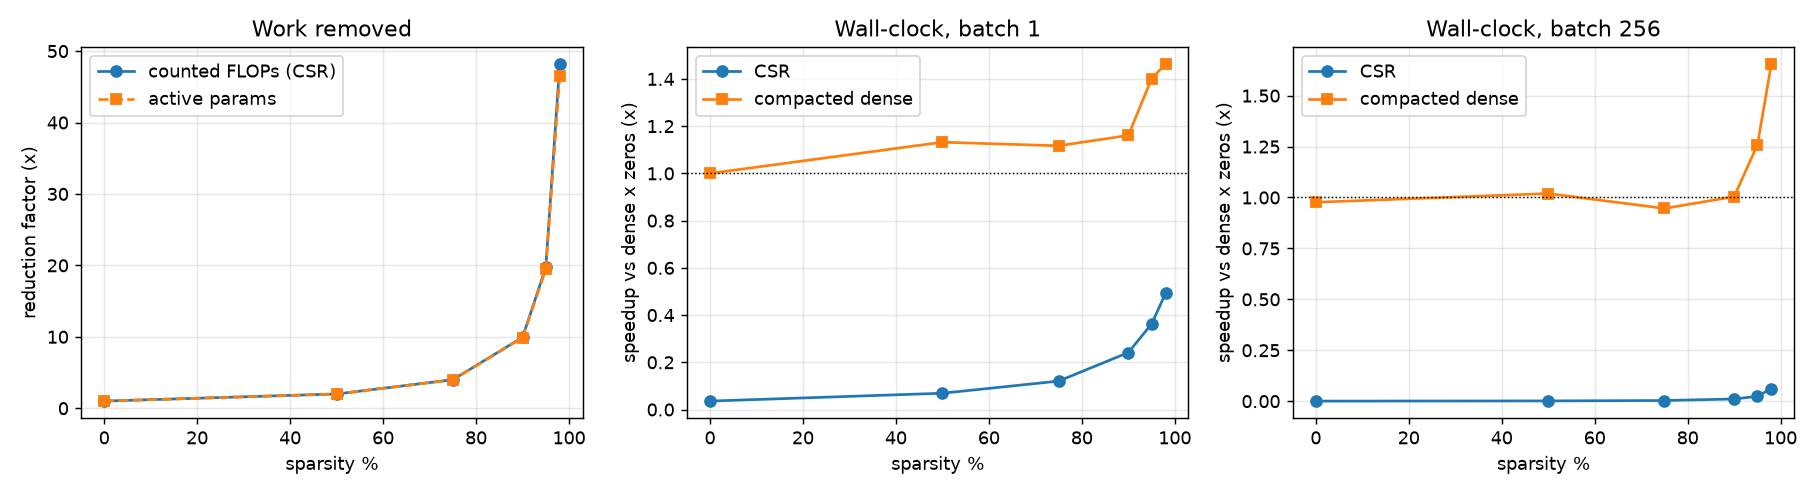
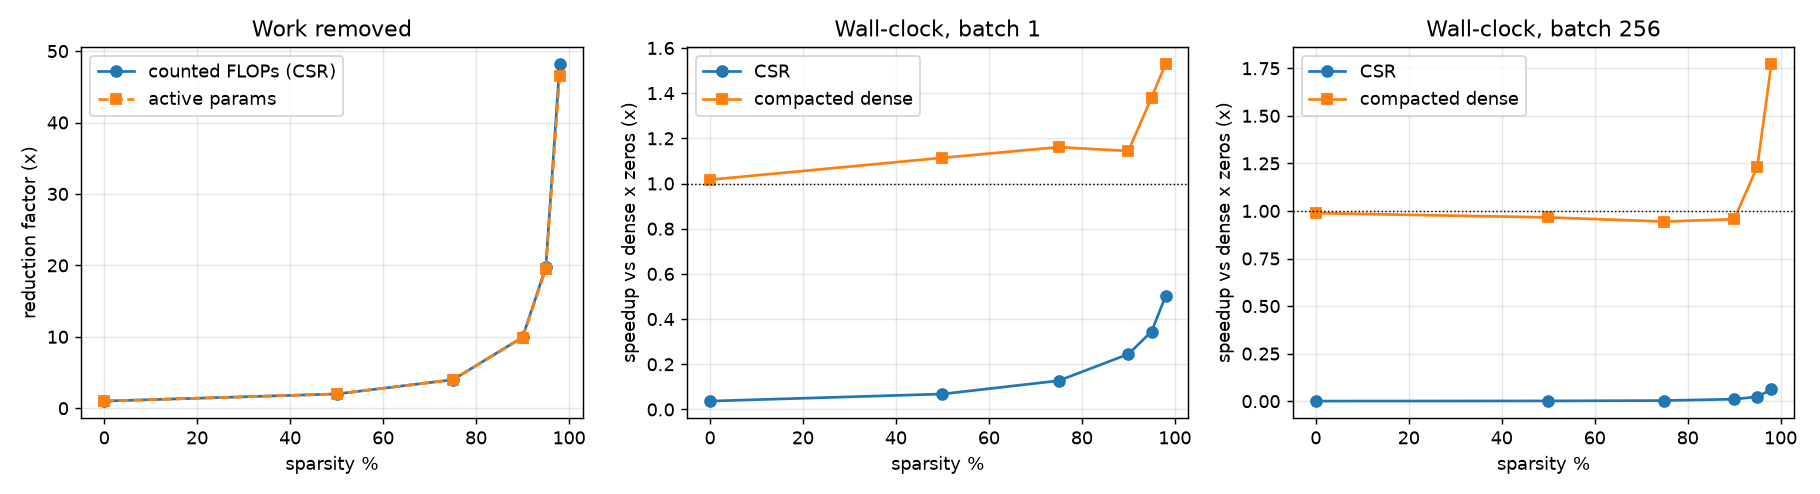
Measure inference cost over 8 seeds with variance, for both criteria
bench_variance.py trains the magnitude and fisher_taylor models for seeds 0-7 at 90/95/98%
(cached outside git, deterministic) and times dense-times-zeros, our CSR forward and the
compacted dense forward on each: round-robin over the paths, 50 samples each after
warm-up, speedup per model as median(dense)/median(path), then median and IQR over the 8
models. bench.json now records the CPU model, NumPy version, BLAS and thread settings, and
the single-model benchmark was re-run with them.

The CSR path is slower than dense BLAS everywhere (median 0.24-0.49x at batch 1, 0.013-0.066x
at batch 256). Compaction helps only for fisher_taylor models, which leave more whole
neurons and inputs disconnected: 1.37x (batch 1) and 1.07x (batch 256) at 95%, 1.51x and
1.73x at 98%. For the magnitude models compaction is not a speedup at 90-95% (0.66-1.02x)
and only 1.2x at batch 1, 0.93x at batch 256, at 98%.

diff --git a/scripts/bench_variance.py b/scripts/bench_variance.py
@@ -1,0 +1,229 @@
+"""Inference cost with variance: the wall-clock benchmark over 8 seeds' models.
+
+The single-model benchmark (bench_inference.py) gives one number per sparsity. This one
+trains the magnitude and fisher_taylor models for seeds 0-7 at 90/95/98% (cached under
+data/bench_models/, deterministic), then times three forward paths on each model:
+
+  dense_x_zeros  dense BLAS on the masked weights (the "multiply by zeros" shortcut)
+  csr            our own CSR forward
+  compact        dead neurons / input features removed, dense BLAS on the rest
+
+Timing is round-robin over the paths (so drift hits all of them alike) with 50 samples per
+path after warm-up; each sample is the mean of several calls when one call is microseconds.
+Per model the speedup is median(dense_x_zeros) / median(path); across the 8 models we report
+the median and inter-quartile range of that speedup. Training runs in parallel, timing runs
+alone in the main process."""
+
+from __future__ import annotations
+
+import argparse
+import csv
+import json
+import os
+import time
+from collections.abc import Callable
+from concurrent.futures import ProcessPoolExecutor
+from itertools import product
+from pathlib import Path
+
+import numpy as np
+
+from engine import Tensor, no_grad
+from nn import mlp
+from prune.experiment import PruneConfig, run_pruning_with_model
+from prune.sparse import SparseMLP, compact
+from scripts.ablate_lib import env_info
+
+ROOT = Path(__file__).resolve().parent.parent
+CACHE = ROOT / "data" / "bench_models"
+METHODS = ["magnitude", "fisher_taylor"]
+SPARSITIES = [0.9, 0.95, 0.98]
+SEEDS = list(range(8))
+BATCHES = {1: 20, 256: 1}  # batch size -> calls averaged per timing sample
+_DATA = None
+
+
+def model_path(method: str, sparsity: float, seed: int) -> Path:
+    return CACHE / f"{method}_s{sparsity}_seed{seed}.npz"
+
+
+def _train(job: tuple[str, float, int]) -> str:
+    global _DATA
+    method, sparsity, seed = job
+    path = model_path(*job)
+    if path.exists():
+        return str(path)
+    if _DATA is None:
+        from train.data import load_mnist
+
+        _DATA = load_mnist()
+    res, model = run_pruning_with_model(
+        PruneConfig(criterion=method, sparsity=sparsity, seed=seed, ramp_end_epoch=8), _DATA
+    )
+    arrays: dict[str, np.ndarray] = {"test_acc": np.array(res["test_acc"])}
+    weights = model.prunable_parameters()
+    for i, p in enumerate(weights):
+        arrays[f"w{i}"], arrays[f"m{i}"] = p.data, p.alive()
+    for i, p in enumerate(q for q in model.parameters() if not q.prunable):
+        arrays[f"b{i}"] = p.data
+    CACHE.mkdir(parents=True, exist_ok=True)
+    np.savez(path, **arrays)  # type: ignore[arg-type]
+    return str(path)
+
+
+def load_model(path: Path):
+    z = np.load(path)
+    model = mlp([784, 300, 100, 10], np.random.default_rng(0))
+    for i, p in enumerate(model.prunable_parameters()):
+        p.set_mask(z[f"m{i}"])
+        p.data[...] = z[f"w{i}"]
+    for i, p in enumerate(q for q in model.parameters() if not q.prunable):
+        p.data[...] = z[f"b{i}"]
+    return model, float(z["test_acc"])
+
+
+def time_paths(
+    fns: dict[str, Callable[[np.ndarray], np.ndarray]], x: np.ndarray, inner: int, reps: int = 50
+) -> dict[str, list[float]]:
+    for fn in fns.values():
+        for _ in range(20):
+            fn(x)
+    samples: dict[str, list[float]] = {k: [] for k in fns}
+    for _ in range(reps):
+        for name, fn in fns.items():
+            t = time.perf_counter()
+            for _ in range(inner):
+                fn(x)
+            samples[name].append((time.perf_counter() - t) / inner * 1e3)
+    return samples
+
+
+def q(a: list[float] | np.ndarray, p: float) -> float:
+    return float(np.percentile(np.asarray(a), p))
+
+
+def main() -> None:
+    ap = argparse.ArgumentParser()
+    ap.add_argument("--jobs", type=int, default=4)
+    ap.add_argument("--reps", type=int, default=50)
+    ap.add_argument("--out", type=Path, default=ROOT / "results" / "bench_variance.json")
+    args = ap.parse_args()
+    for var in ("OMP_NUM_THREADS", "OPENBLAS_NUM_THREADS", "VECLIB_MAXIMUM_THREADS"):
+        os.environ.setdefault(var, "1")
+    from train.data import load_mnist
+
+    jobs = [(m, s, seed) for m, s, seed in product(METHODS, SPARSITIES, SEEDS)]
+    with ProcessPoolExecutor(max_workers=args.jobs) as ex:
+        list(ex.map(_train, jobs))
+    x_test = load_mnist().x_test
+
+    models = []
+    for method, sparsity, seed in jobs:
+        model, test_acc = load_model(model_path(method, sparsity, seed))
+        weights = [p.data for p in model.prunable_parameters()]
+        biases = [p.data for p in model.parameters() if not p.prunable]
+        sparse, comp = SparseMLP(model), compact(model)
+
+        def dense_zeros(h, ws=weights, bs=biases):
+            for i, (w, b) in enumerate(zip(ws, bs, strict=True)):
+                h = h @ w + b
+                if i < len(ws) - 1:
+                    h = np.maximum(h, 0)
+            return h
+
+        with no_grad():
+            ref = model(Tensor(x_test[:512])).data
+        agree = bool(
+            (sparse.forward(x_test[:512]).argmax(1) == ref.argmax(1)).all()
+            and (comp.forward(x_test[:512]).argmax(1) == ref.argmax(1)).all()
+        )
+        row = {
+            "method": method, "sparsity": sparsity, "seed": seed, "test_acc": test_acc,
+            "paths_agree_with_dense": agree,
+            "flops_dense": 2 * sum(w.size for w in weights) + sum(b.size for b in biases),
+            "flops_csr": sparse.flops_per_sample,
+            "flops_compact": comp.flops_per_sample,
+            "compact_shapes": [list(s) for s in comp.shapes],
+        }  # fmt: skip
+        fns: dict[str, Callable[[np.ndarray], np.ndarray]] = {
+            "dense_x_zeros": dense_zeros,
+            "csr": sparse.forward,
+            "compact": comp.forward,
+        }
+        for batch, inner in BATCHES.items():
+            s = time_paths(fns, x_test[:batch], inner, args.reps)
+            for name, v in s.items():
+                row[f"ms_b{batch}_{name}"] = {
+                    "median": q(v, 50), "q25": q(v, 25), "q75": q(v, 75),
+                }  # fmt: skip
+        models.append(row)
+        print(
+            f"{method:13s} s={sparsity} seed={seed} agree={agree} "
+            f"b256 dense/csr/compact ms {row['ms_b256_dense_x_zeros']['median']:.3f}/"
+            f"{row['ms_b256_csr']['median']:.2f}/{row['ms_b256_compact']['median']:.3f}",
+            flush=True,
+        )
+
+    summary = []
+    for method, sparsity in product(METHODS, SPARSITIES):
+        rows = [r for r in models if r["method"] == method and r["sparsity"] == sparsity]
+        entry: dict = {
+            "method": method, "sparsity": sparsity, "n_models": len(rows),
+            "flops_reduction_csr": float(np.median([r["flops_dense"] / r["flops_csr"] for r in rows])),
+            "flops_reduction_compact": float(np.median([r["flops_dense"] / r["flops_compact"] for r in rows])),
+        }  # fmt: skip
+        for batch in BATCHES:
+            for path in ("csr", "compact"):
+                sp = [
+                    r[f"ms_b{batch}_dense_x_zeros"]["median"] / r[f"ms_b{batch}_{path}"]["median"]
+                    for r in rows
+                ]
+                entry[f"speedup_b{batch}_{path}"] = {
+                    "median": q(sp, 50), "q25": q(sp, 25), "q75": q(sp, 75),
+                    "min": min(sp), "max": max(sp),
+                }  # fmt: skip
+        summary.append(entry)
+        c1, c256 = entry["speedup_b1_compact"], entry["speedup_b256_compact"]
+        print(
+            f"{method:13s} {sparsity}: compact speedup b1 {c1['median']:.2f}x [{c1['q25']:.2f},{c1['q75']:.2f}]"
+            f"  b256 {c256['median']:.2f}x [{c256['q25']:.2f},{c256['q75']:.2f}]"
+            f"  csr b1 {entry['speedup_b1_csr']['median']:.2f}x b256 {entry['speedup_b256_csr']['median']:.3f}x"
+        )
+    out = {
+        "env": env_info(),
+        "protocol": {
+            "samples_per_path": args.reps,
+            "calls_per_sample": BATCHES,
+            "order": "round-robin over paths",
+            "speedup": "median(dense_x_zeros) / median(path), per model; then median and IQR over 8 models",
+        },
+        "models": models,
+        "summary": summary,
+    }
+    args.out.parent.mkdir(parents=True, exist_ok=True)
+    args.out.write_text(json.dumps(out))
+    flat_rows = []
+    for e in summary:
+        r = {
+            k: e[k]
+            for k in (
+                "method",
+                "sparsity",
+                "n_models",
+                "flops_reduction_csr",
+                "flops_reduction_compact",
+            )
+        }
+        for b, p in product(BATCHES, ("csr", "compact")):
+            for k in ("median", "q25", "q75"):
+                r[f"speedup_b{b}_{p}_{k}"] = e[f"speedup_b{b}_{p}"][k]
+        flat_rows.append(r)
+    with open(args.out.with_suffix(".csv"), "w", newline="") as f:
+        w = csv.DictWriter(f, fieldnames=list(flat_rows[0]))
+        w.writeheader()
+        w.writerows(flat_rows)
+    print(f"wrote {args.out}")
+
+
+if __name__ == "__main__":
+    main()

diff --git a/scripts/bench_inference.py b/scripts/bench_inference.py
@@ -16,8 +16,6 @@ from __future__ import annotations
 import argparse
 import csv
 import json
-import os
-import platform
 import time
 from pathlib import Path
 
@@ -30,6 +28,7 @@ import numpy as np
 from engine import Tensor, no_grad
 from prune.experiment import PruneConfig, run_pruning_with_model
 from prune.sparse import SparseMLP, compact, dense_flops_per_sample
+from scripts.ablate_lib import env_info
 from train.data import load_mnist
 
 ROOT = Path(__file__).resolve().parent.parent
@@ -114,10 +113,8 @@ def main() -> None:
 
     args.out.mkdir(parents=True, exist_ok=True)
     meta = {
-        "machine": platform.platform(),
-        "numpy": np.__version__,
-        "omp_threads": os.environ.get("OMP_NUM_THREADS"),
-        "note": "median of repeated runs after warmup; single BLAS thread",
+        **env_info(),
+        "note": "median of repeated runs after warmup; single BLAS thread; one seed, fisher_taylor",
     }
     (args.out / "bench.json").write_text(json.dumps({"meta": meta, "rows": rows}, indent=2))
     with open(args.out / "bench.csv", "w", newline="") as f:

diff --git a/tests/test_ablations.py b/tests/test_ablations.py
@@ -70,3 +70,12 @@ def test_unknown_optimizer_is_rejected() -> None:
 
     with pytest.raises(ValueError, match="unknown optimizer"):
         run_pruning(PruneConfig(optimizer="rmsprop"), None)  # type: ignore[arg-type]
+
+
+def test_bench_time_paths_and_percentiles() -> None:
+    from scripts.bench_variance import q, time_paths
+
+    x = np.ones((2, 3))
+    s = time_paths({"a": lambda v: v + 1, "b": lambda v: v @ v.T}, x, inner=3, reps=7)
+    assert set(s) == {"a", "b"} and all(len(v) == 7 and min(v) > 0 for v in s.values())
+    assert q([1.0, 2.0, 3.0, 4.0, 5.0], 50) == 3.0 and q([1.0, 2.0, 3.0, 4.0, 5.0], 25) == 2.0
